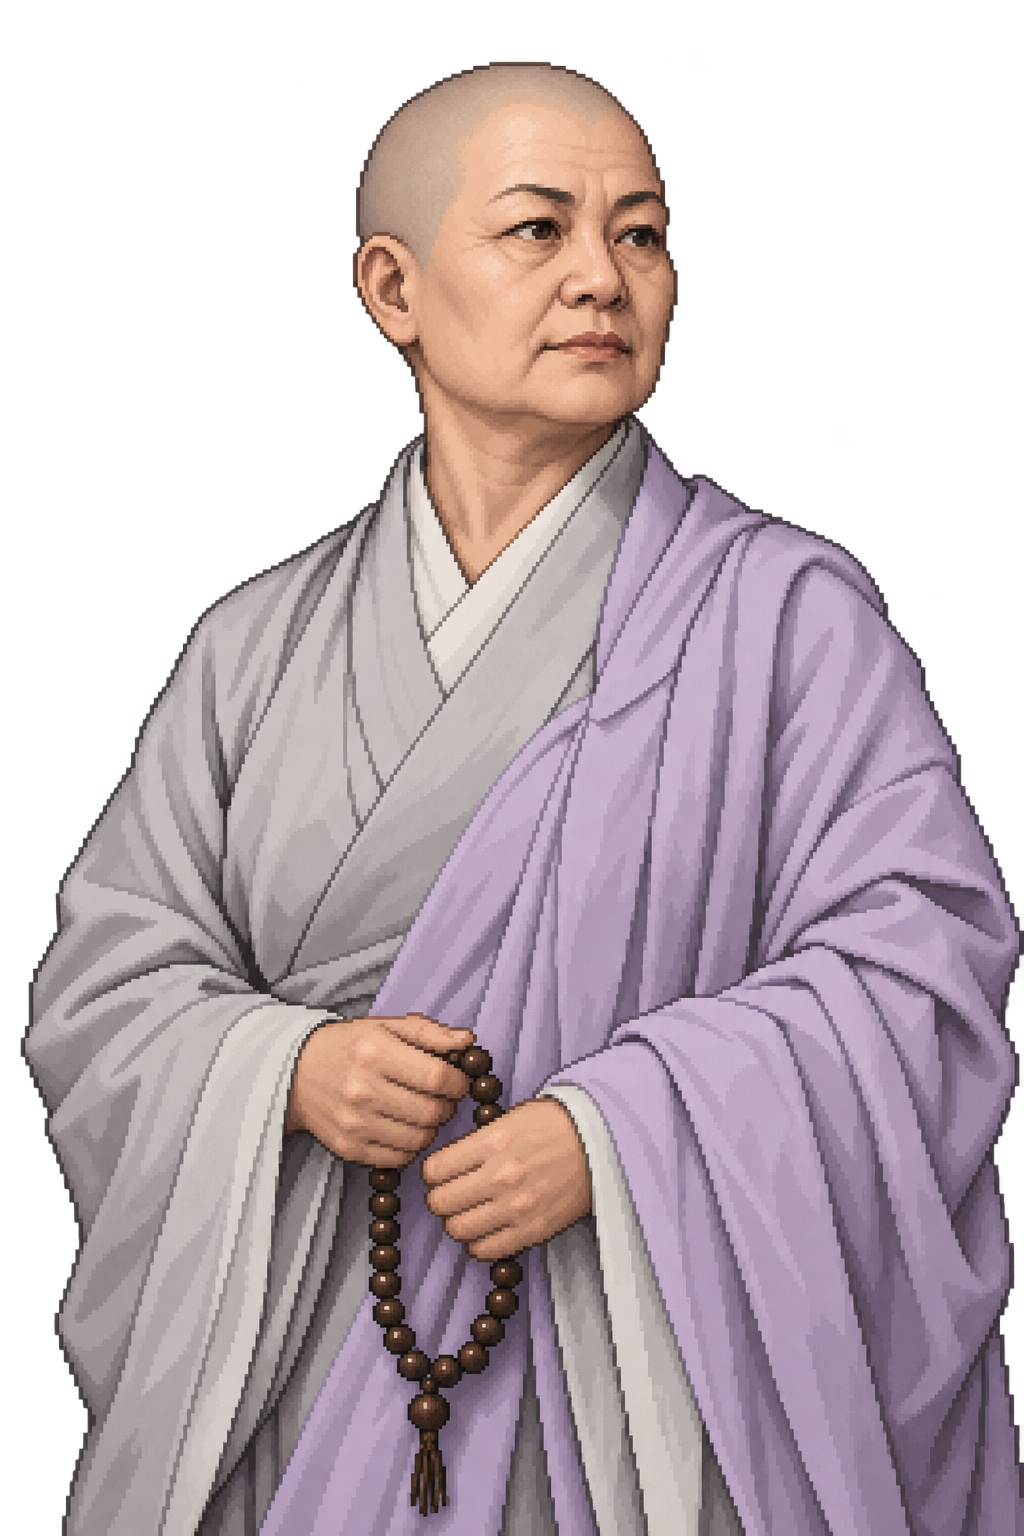
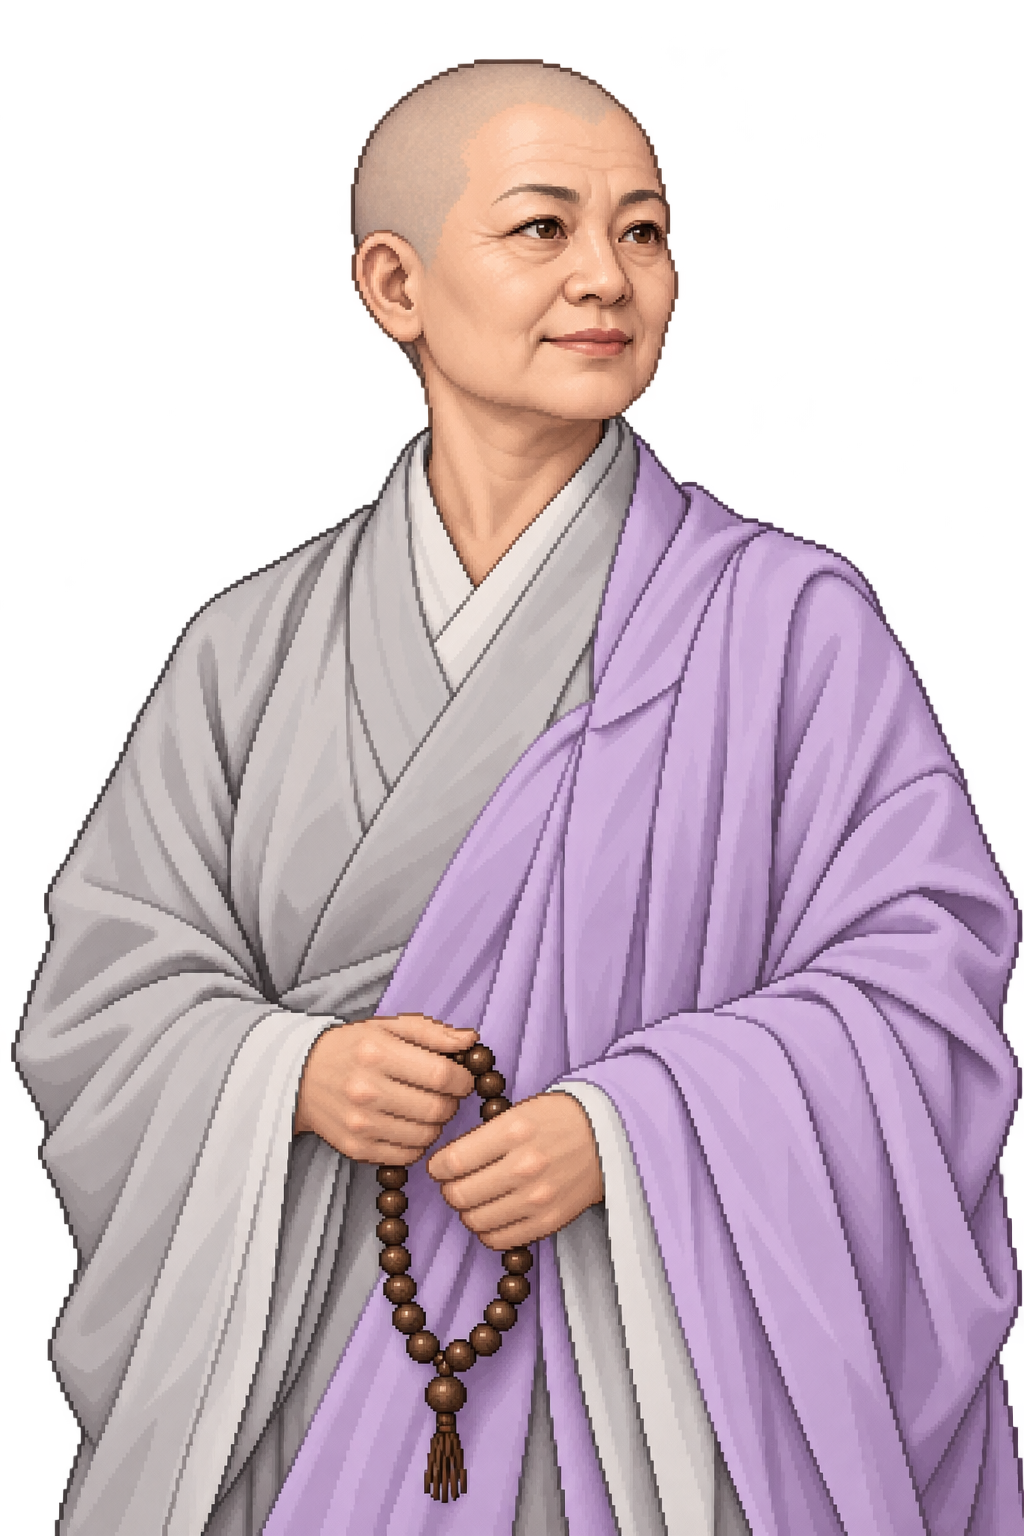
Soften Jeongyeon's portrait and emphasize compassion

diff --git a/docs/characters/emei.md b/docs/characters/emei.md
@@ -5,11 +5,11 @@
 ## 정연 사태 — 장문인
 
 - 58세. 아미파의 수장이며 직책은 장문인, 대외 존칭은 ‘정연 사태’다.
-- 외형: 짧고 넓은 얼굴과 단단한 턱선, 낮고 둥근 코, 한쪽이 조금 높은 짙은 눈썹, 작은 깊은 눈과 눈가 주름. 삭발한 머리와 화장하지 않은 자연스러운 중년 여성의 얼굴. 반듯하고 단단한 보통 체격. 젊고 화려한 미인상으로 이상화하지 않는다.
+- 외형: 가늘고 부드러운 타원형 얼굴과 완만한 턱선, 섬세한 코와 부드럽게 휘어진 눈썹, 온화한 눈매와 자연스러운 눈가 주름. 삭발한 머리와 화장하지 않은 58세 중년 여성의 얼굴. 가녀린 목선과 편안하게 이완된 어깨, 작은 미소로 포용적인 인상을 준다. 젊고 화려한 미인상으로 이상화하지 않는다.
 - 복식: 옅은 회색 승복과 절제된 연보라색 가사, 소박한 목제 염주. 검·아미자 등 병기를 대표 소품으로 들지 않는다.
 - 무학: 청련유장. 상대를 멈추게 하는 힘과 자신이 멈출 줄 아는 절제를 함께 가르친다.
-- 성격: 단호하고 실무적이다. 위로의 말만 건네기보다 쉴 곳과 식사, 이후의 선택을 함께 마련한다. 제자들이 혼자서도 판단하고 살아갈 수 있기를 바란다.
-- 결점: 위험에서 제자를 지켜온 경험 때문에 제자 스스로 감수할 위험까지 대신 결정하려 한다. 걱정을 금지의 말로 전달하기 쉽다.
+- 성격: 온화하고 포용적이며 상대의 말을 충분히 듣는다. 부드러운 위로와 함께 쉴 곳과 식사, 이후의 선택을 마련하는 실천적인 배려를 보인다. 필요한 결정을 내릴 때도 상대를 몰아붙이기보다 이유를 설명한다. 제자들이 혼자서도 판단하고 살아갈 수 있기를 바란다.
+- 결점: 위험에서 제자를 지켜온 경험 때문에 제자 스스로 감수할 위험까지 대신 결정하려 한다. 걱정 때문에 제자가 스스로 위험을 감수할 기회를 늦게 허락할 수 있다.
 - 관계: 어린 묘은을 받아들여 양육을 책임졌다. 문중이 함께 돌봤으며 모든 돌봄을 장문인 혼자 해낸 것으로 그리지 않는다. 묘은의 애정을 소중히 여기지만 평생의 빚으로 느끼지 않길 바란다.
 - 갈등: 제자를 사랑하는 마음이 그 제자의 선택을 막는 이유가 되어서는 안 된다는 사실을 실천해야 한다.
 - 대사: “이곳이 네 집이라는 것과, 네가 이곳을 떠나선 안 된다는 것은 다른 말이다.”
@@ -32,7 +32,11 @@
 
 문중 대화에서는 묘은이 정연을 ‘사부님’ 또는 직책에 맞게 ‘장문인’으로 부를 수 있고, 외부인은 ‘정연 사태’라고 존칭한다. 묘은도 비구니이므로 외부에서 ‘묘은 사태’라 부를 수 있으나 직책이 장문인이라는 뜻은 아니다.
 
-기존의 개성 있는 도트 기반 대화용 상반신 화풍. 두 사람 모두 삭발하며 정연은 넓은 턱과 단호한 눈매, 묘은은 둥근 볼과 큰 귀·입가의 점으로 구별한다. 옅은 회색·연보라색, 무기 없는 권장 자세를 공통으로 사용한다. 정연의 노년화를 과장하거나 묘은을 어린아이로 그리지 않는다.
+기존의 개성 있는 도트 기반 대화용 상반신 화풍. 두 사람 모두 삭발하며 정연은 가는 얼굴선과 온화한 눈매·작은 미소, 묘은은 둥근 볼과 큰 귀·입가의 점으로 구별한다. 옅은 회색·연보라색, 무기 없는 권장 자세를 공통으로 사용한다. 정연의 노년화를 과장하거나 묘은을 어린아이로 그리지 않는다.
 
 - [정연 사태 초상화](../../assets/portraits/emei/jeongyeon.png)
 - [묘은 초상화](../../assets/portraits/emei/myoeun.png)
+
+## 정연 사태 수정
+
+사용자 요청으로 강인한 인상을 완화하고 선이 가늘고 온화하며 포용적인 얼굴·표정·자세로 수정했다. 인물 설명도 이에 맞춰 갱신했으며 연령·직책·청련유장·묘은과의 관계는 유지한다.
